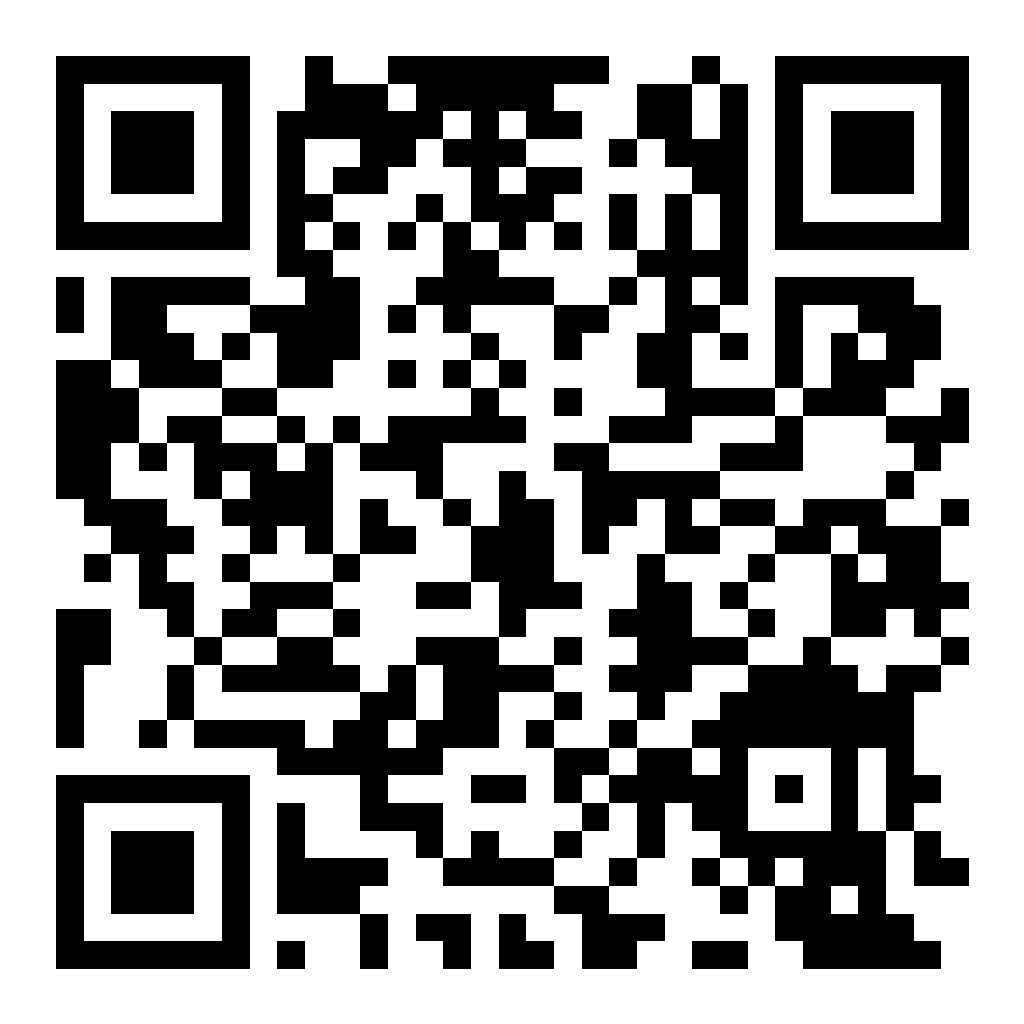
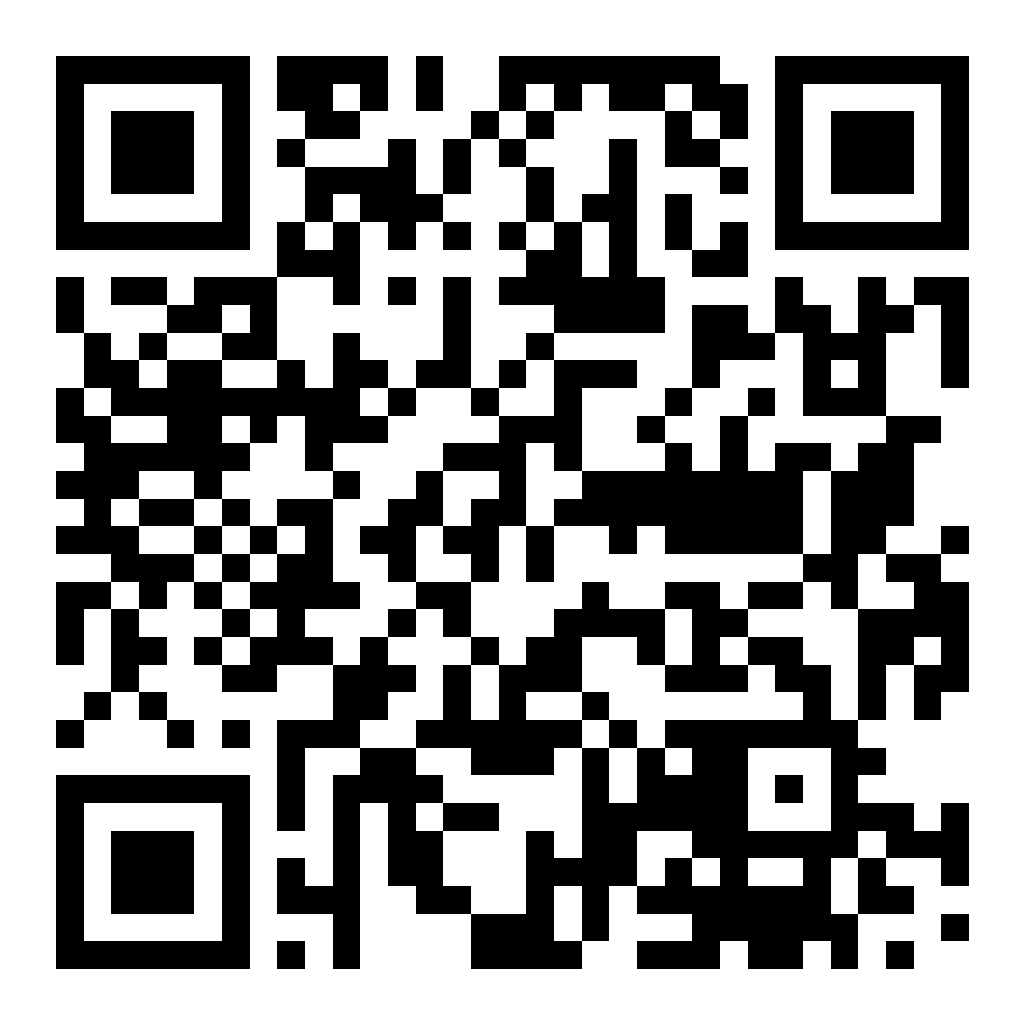
fix: QR de démo pointe vers le domaine déployé, plus localhost

Changed region(s): [[0.0312, 0.0312, 0.9688, 0.9688]]

diff --git a/src/components/landing/scene3d.tsx b/src/components/landing/scene3d.tsx
@@ -351,7 +351,7 @@ async function initScene(
       img.onerror = () => {
         try {
           const code = qrcode(0, "M");
-          code.addData("https://avistrack.fr/avis/demo-avistrack");
+          code.addData("https://avis-pied.vercel.app/avis/demo-avistrack");
           code.make();
           const count = code.getModuleCount();
           const cell = qrSize / count;
